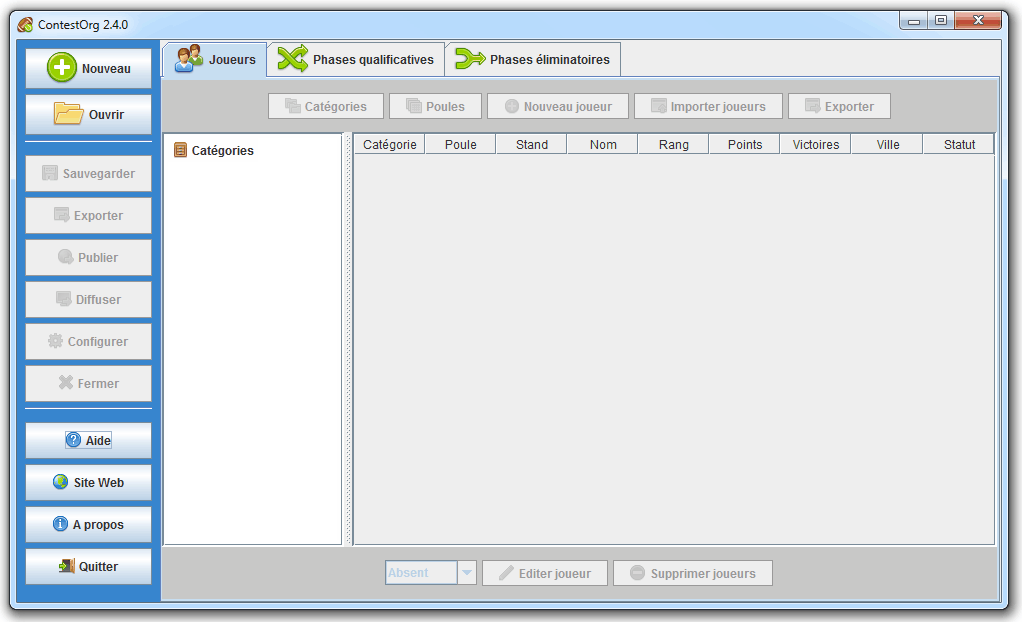
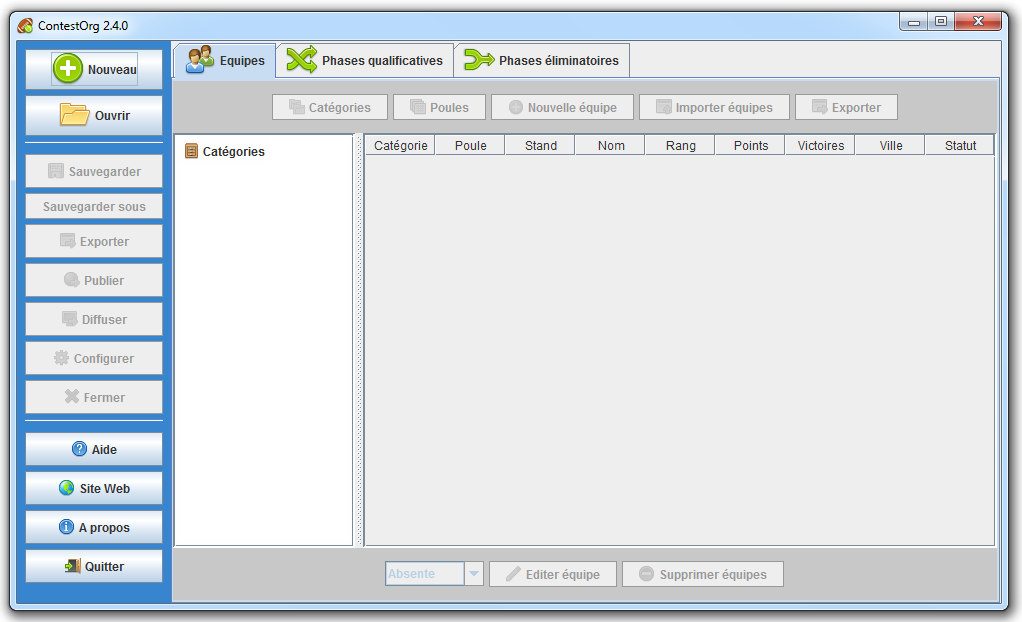
Issue #125 : Sauvegarder sous

Changed region(s): [[0.0, 0.0, 1.0, 1.0]]

diff --git a/application/src/org/contestorg/views/JFPrincipal.java b/application/src/org/contestorg/views/JFPrincipal.java
@@ -51,6 +51,8 @@ public class JFPrincipal extends JFrame implements ActionListener, WindowListene
 
 	/** Bouton "Sauvegarder" */
 	private JButton jb_sauvegarder;
+	/** Bouton "Sauvegarder sous" */
+	private JButton jb_sauvegarder_sous;
 	/** Bouton "Exporter" */
 	private JButton jb_exporter;
 	/** Bouton "Publier" */
@@ -106,6 +108,7 @@ public class JFPrincipal extends JFrame implements ActionListener, WindowListene
 		this.jb_nouveau = new JButton("Nouveau", new ImageIcon("img/farm/32x32/add.png"));
 		this.jb_ouvrir = new JButton("Ouvrir", new ImageIcon("img/farm/32x32/folder.png"));
 		this.jb_sauvegarder = new JButton("Sauvegarder", new ImageIcon("img/farm/16x16/disk.png"));
+		this.jb_sauvegarder_sous = new JButton("Sauvegarder sous");
 		this.jb_exporter = new JButton("Exporter", new ImageIcon("img/farm/16x16/application_go.png"));
 		this.jb_publier = new JButton("Publier", new ImageIcon("img/farm/16x16/world_go.png"));
 		this.jb_diffuser = new JButton("Diffuser", new ImageIcon("img/farm/16x16/monitor_go.png"));
@@ -119,6 +122,7 @@ public class JFPrincipal extends JFrame implements ActionListener, WindowListene
 		this.jb_nouveau.setToolTipText("Créer un nouveau concours");
 		this.jb_ouvrir.setToolTipText("Ouvrir un concours existant");
 		this.jb_sauvegarder.setToolTipText("Sauvegarder les modifications");
+		this.jb_sauvegarder_sous.setToolTipText("Sauvegarder le tournoi dans un autre fichier");
 		this.jb_exporter.setToolTipText("Lancer des exportations prédéfinies");
 		this.jb_publier.setToolTipText("Lancer l'exportation choisie pour la publication");
 		this.jb_diffuser.setToolTipText("Démarrer des diffusions d'informations sur le réseau");
@@ -130,36 +134,38 @@ public class JFPrincipal extends JFrame implements ActionListener, WindowListene
 		this.jb_quitter.setToolTipText("Quitter le programme");
 
 		this.jb_sauvegarder.setEnabled(false);
+		this.jb_sauvegarder_sous.setEnabled(false);
 		this.jb_exporter.setEnabled(false);
 		this.jb_publier.setEnabled(false);
 		this.jb_diffuser.setEnabled(false);
 		this.jb_configurer.setEnabled(false);
 		this.jb_fermer.setEnabled(false);
 
-		this.addButton(jp_gauche, this.jb_nouveau);
-		this.addButton(jp_gauche, this.jb_ouvrir);
+		this.addButton(jp_gauche, this.jb_nouveau, true);
+		this.addButton(jp_gauche, this.jb_ouvrir, true);
 
 		JSeparator js_sep1 = new JSeparator();
 		js_sep1.setMaximumSize(new Dimension(280, 12));
 		jp_gauche.add(js_sep1);
 		jp_gauche.add(Box.createVerticalStrut(5));
 
-		this.addButton(jp_gauche, this.jb_sauvegarder);
-		this.addButton(jp_gauche, this.jb_exporter);
-		this.addButton(jp_gauche, this.jb_publier);
-		this.addButton(jp_gauche, this.jb_diffuser);
-		this.addButton(jp_gauche, this.jb_configurer);
-		this.addButton(jp_gauche, this.jb_fermer);
+		this.addButton(jp_gauche, this.jb_sauvegarder, true);
+		this.addButton(jp_gauche, this.jb_sauvegarder_sous, false);
+		this.addButton(jp_gauche, this.jb_exporter, true);
+		this.addButton(jp_gauche, this.jb_publier, true);
+		this.addButton(jp_gauche, this.jb_diffuser, true);
+		this.addButton(jp_gauche, this.jb_configurer, true);
+		this.addButton(jp_gauche, this.jb_fermer, true);
 
 		JSeparator js_sep2 = new JSeparator();
 		js_sep2.setMaximumSize(new Dimension(280, 12));
 		jp_gauche.add(js_sep2);
 		jp_gauche.add(Box.createVerticalStrut(5));
 
-		this.addButton(jp_gauche, this.jb_aide);
-		this.addButton(jp_gauche, this.jb_web);
-		this.addButton(jp_gauche, this.jb_apropos);
-		this.addButton(jp_gauche, this.jb_quitter);
+		this.addButton(jp_gauche, this.jb_aide, true);
+		this.addButton(jp_gauche, this.jb_web, true);
+		this.addButton(jp_gauche, this.jb_apropos, true);
+		this.addButton(jp_gauche, this.jb_quitter, true);
 
 		// Panel à onglets
 		JPanel jp_participants = new JPPrincipalParticipants(this);
@@ -177,6 +183,7 @@ public class JFPrincipal extends JFrame implements ActionListener, WindowListene
 		this.jb_nouveau.addActionListener(this);
 		this.jb_ouvrir.addActionListener(this);
 		this.jb_sauvegarder.addActionListener(this);
+		this.jb_sauvegarder_sous.addActionListener(this);
 		this.jb_exporter.addActionListener(this);
 		this.jb_publier.addActionListener(this);
 		this.jb_diffuser.addActionListener(this);
@@ -195,10 +202,16 @@ public class JFPrincipal extends JFrame implements ActionListener, WindowListene
 	 * Ajouter un bouton au panneau
 	 * @param panel panel du panneau
 	 * @param button boutton
+	 * @param resizeHeight redimensionner le bouton ?
 	 */
-	private void addButton (JPanel panel, JButton button) {
+	private void addButton (JPanel panel, JButton button, boolean resizeHeight) {
 		button.setAlignmentX(Component.CENTER_ALIGNMENT);
-		button.setMaximumSize(new Dimension(280, 40));
+		Dimension maxSize = button.getMaximumSize();
+		maxSize.width = 280;
+		if(resizeHeight) {
+				maxSize.height = 40;
+		}
+		button.setMaximumSize(maxSize);
 		panel.add(button);
 		panel.add(Box.createVerticalStrut(5));
 	}
@@ -245,6 +258,8 @@ public class JFPrincipal extends JFrame implements ActionListener, WindowListene
 			}
 		} else if (event.getSource() == this.jb_sauvegarder) {
 			ContestOrg.get().concoursSauvegarder();
+		} else if (event.getSource() == this.jb_sauvegarder_sous) {
+			ContestOrg.get().concoursSauvegarderSous();
 		} else if (event.getSource() == this.jb_exporter) {
 			JDExportations dialog = new JDExportations(this);
 			dialog.setVisible(true);
@@ -313,6 +328,7 @@ public class JFPrincipal extends JFrame implements ActionListener, WindowListene
 	public void moodyChanged (IMoody moody) {
 		// Mettre à jour l'état de certains boutons
 		this.jb_sauvegarder.setEnabled(moody.is(ContestOrg.STATE_EDIT) && !moody.is(ContestOrg.STATE_SAVE));
+		this.jb_sauvegarder_sous.setEnabled(moody.is(ContestOrg.STATE_EDIT));
 		this.setTitle(!moody.is(ContestOrg.STATE_OPEN) || moody.is(ContestOrg.STATE_SAVE) ? this.titre : this.titre+" *");
 		this.jb_exporter.setEnabled(moody.is(ContestOrg.STATE_OPEN));
 		this.jb_publier.setEnabled(moody.is(ContestOrg.STATE_OPEN));

diff --git a/application/src/org/contestorg/controllers/ContestOrg.java b/application/src/org/contestorg/controllers/ContestOrg.java
@@ -522,6 +522,26 @@ public class ContestOrg extends MoodyAbstract implements IHistoryListener
 	}
 	
 	/**
+	 * Sauvegarder le concours sous
+	 */
+	public void concoursSauvegarderSous() {
+		// Demander à l'utilisateur le chemin de sauvegarde
+		this.chemin = ViewHelper.sauvegarder(this.jf_general, "Sauvegarder le concours sous", FiltreFichier.ext_co, FiltreFichier.des_co);
+		
+		// Si un fichier a bien été donné
+		if (this.chemin != null) {
+			// Sauvegarder le concours
+			if(new PersistanceXML(chemin).save()) {
+				// Ajouter l'état sauvegardé
+				this.addState(STATE_SAVE);
+			} else {
+				// Message d'erreur
+				ViewHelper.derror(this.jf_general, "Une erreur est survenue lors de la sauvegarde du concours.");
+			}
+		}
+	}
+	
+	/**
 	 * Lancer la procédure de fermeture du concours
 	 */
 	public void concoursFermer() {
